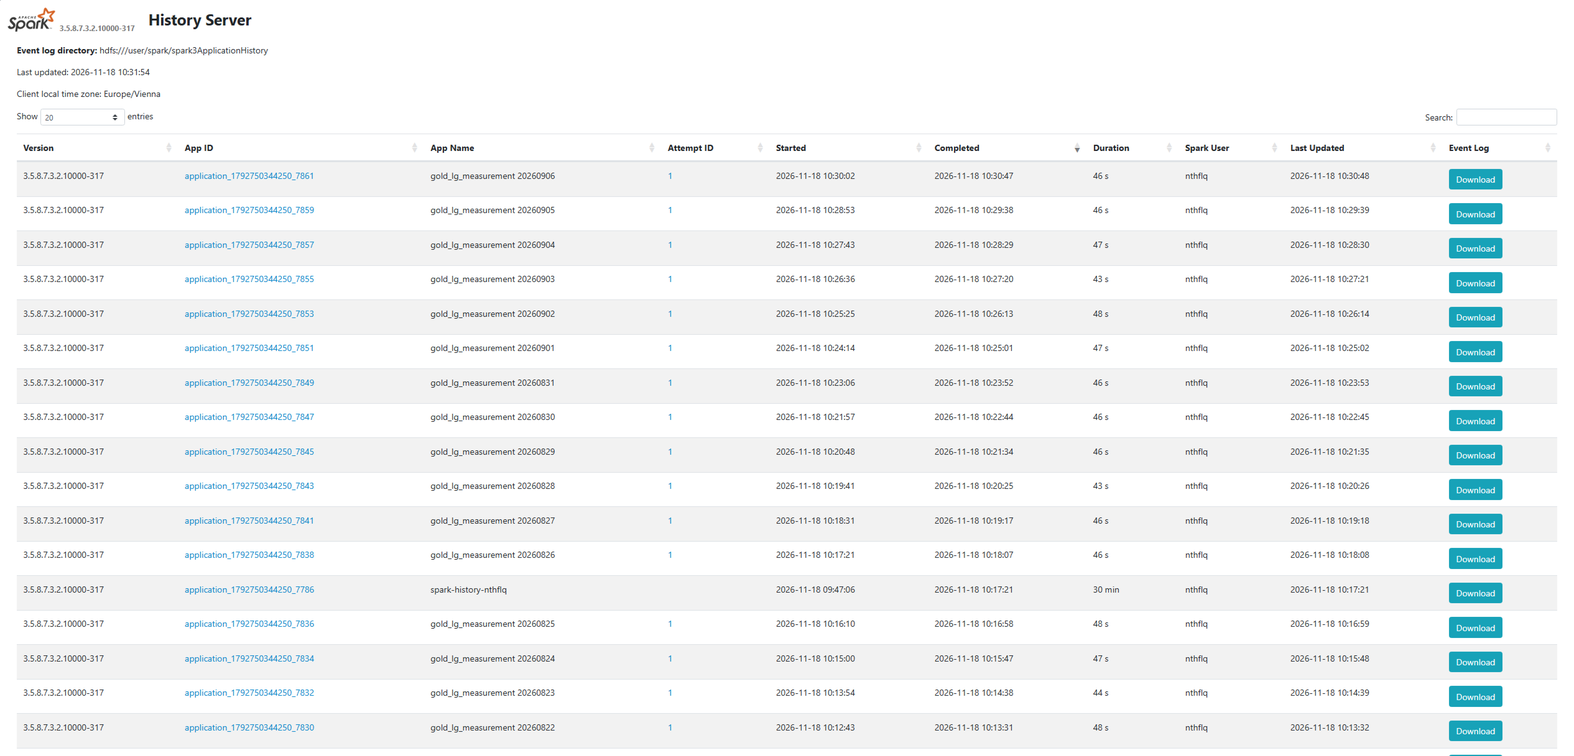
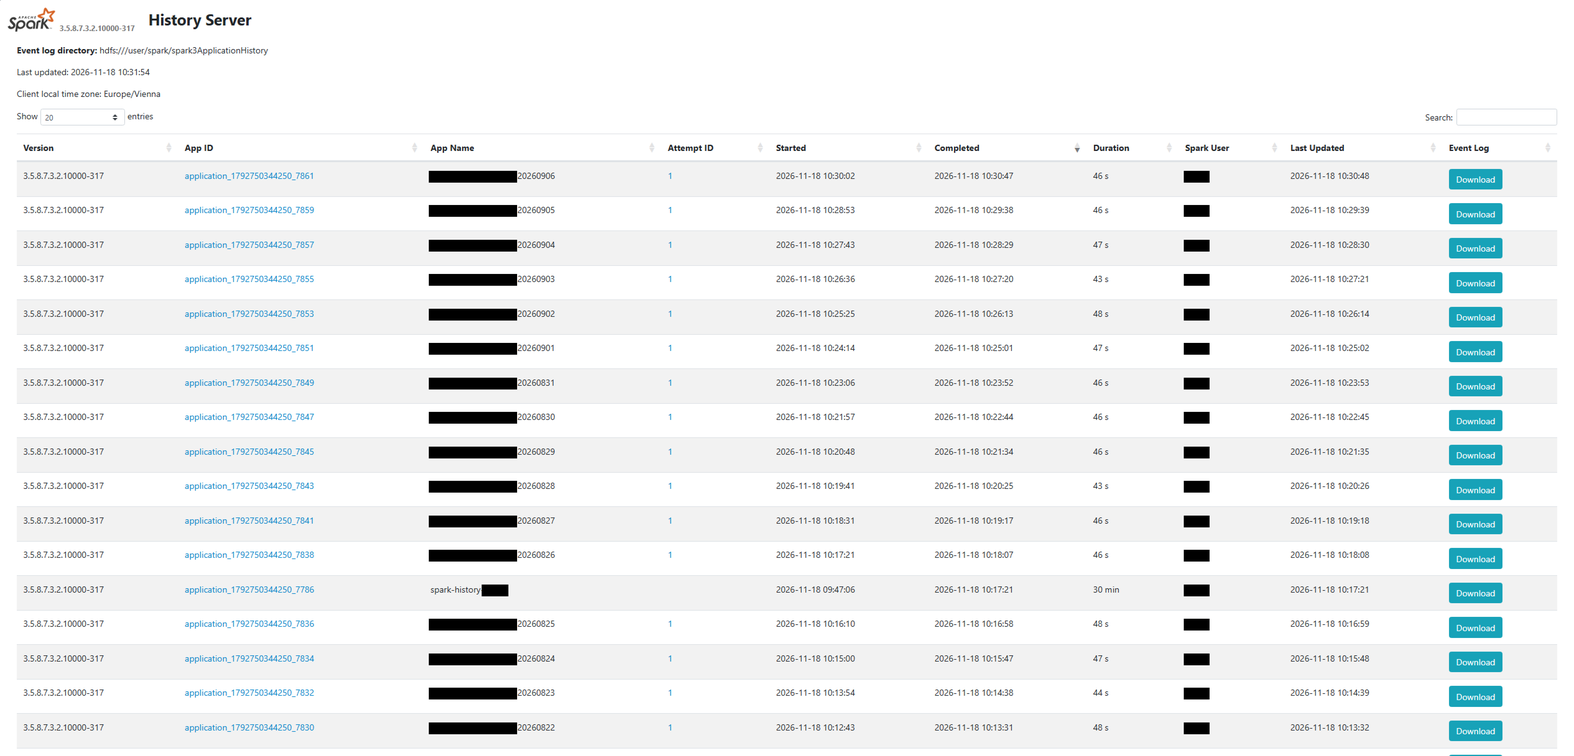
images

diff --git a/16-basics-spark-history/lab/lab_basics_spark_history.md b/16-basics-spark-history/lab/lab_basics_spark_history.md
@@ -6,7 +6,7 @@ You need two windows side by side: the place where you type Spark code (a termin
 
 | Part | Sections | What you do |
 |------|----------|-------------|
-| **A. Orient** | 0 | Start the application, open the History Server, prepare the labels that link the UI to your code |
+| **A. Orient** | 0 | Start the application, open the History Server, learn what each tab is for |
 | **B. Steps** | 1–9 | One step per section; each ends with a look into the UI |
 | **C. Wrap-up** | 10 | End the application and read it as a *completed* application |
 
@@ -19,7 +19,7 @@ The only block that differs is the one that sets paths (section 0.1). The Histor
 
 **Pasting into `pyspark3`:** after you paste a function (`def ...`) or a loop (`for ...`), press Enter once more so the shell closes it. Inside brackets `( )` the lab never leaves empty lines.
 
-**Screenshots:** every place marked `SCREENSHOT` shows which picture belongs there (file name in [images/](images/)). Your own screen should look similar.
+**Screenshots:** the pictures show how the UI looks; your own screen should look similar. A note marked `SCREENSHOT` names a picture that is still missing (file name in [images/](images/)).
 
 ---
 
@@ -27,7 +27,7 @@ The only block that differs is the one that sets paths (section 0.1). The Histor
 
 ## 0. Start the application and open the History Server
 
-**Goal:** Have a running Spark application, find it in the History Server, and label your code so every UI row can be traced back to it.
+**Goal:** Have a running Spark application, find it in the History Server, and learn what each of its tabs is for.
 
 ### 0.1 Start the application
 
@@ -122,13 +122,11 @@ You should see `adaptive.enabled = false` and `shuffle.partitions = 8`.
 
 Open the **Spark History Server** (URL from your handout, or Cloudera Manager → Spark 3 → *Spark3 History Server Web UI*). The start page lists applications.
 
-> **SCREENSHOT** `images/01-history-app-list.png`: the application list, filtered to your user name, with the column headers visible (App ID, App Name, Started, Completed, Duration, Spark User, Last Updated, Event Log).
-<!-- ![Application list](images/01-history-app-list.png) -->
+<img src="images/01-history-app-list.png" alt="Application list" width="70%">
 
 Your application is **not** in the default list: it is still running, and the default list shows only completed applications. Click **Show incomplete applications** at the bottom, and search for your user name or `spark-history`.
 
-> **SCREENSHOT** `images/02-history-show-incomplete.png`: the link *Show incomplete applications* and your application in the incomplete list (Completed column empty).
-<!-- ![Show incomplete applications](images/02-history-show-incomplete.png) -->
+<img src="images/02-history-show-incomplete.png" alt="Show incomplete applications" width="100%">
 
 Read the columns:
 
@@ -139,16 +137,108 @@ Read the columns:
 
 Click the **App ID** to open the application. The first page is the **Jobs** tab, still empty: you have not run an action yet.
 
-> **SCREENSHOT** `images/03-app-empty-jobs-tab.png`: the Jobs tab of your application before any job, with the tab bar (Jobs, Stages, Storage, Environment, Executors, SQL / DataFrame) visible.
-<!-- ![Empty Jobs tab](images/03-app-empty-jobs-tab.png) -->
+<img src="images/03-app-empty-jobs-tab.png" alt="Empty Jobs tab" width="100%">
 
 **If your application is missing:** wait about 10 seconds and reload (the History Server rescans the event log directory periodically), check that **Show incomplete applications** is on, and compare the id with the one you printed. Ask your instructor if it is still missing after a minute.
 
 **The live UI shows the same pages.** While the application runs, the ResourceManager (YARN UI) links to the Spark UI itself (`application_...` → *ApplicationMaster*). The History Server pages are identical; it just keeps them after the application has ended. In this lab you stay in the History Server.
 
-### 0.3 Label your code so you can find it in the UI
+### 0.3 A map of the UI
 
-Spark names jobs after the place in the Spark source that started them, for example `count at NativeMethodAccessorImpl.java:0`. In PySpark that never points at *your* line. So the lab gives every step a **label**. Two small functions do it. `step()` puts a label on every job that follows; `jobs()` prints the job ids a step has started, so you can look for exactly those numbers in the UI.
+Keep this in mind while you work. Each tab answers one question:
+
+- **Jobs:** one row per **job**, usually one per **action** you ran (`count`, `show`, `collect`, `write`, ...). *Which of my actions was slow? Which one failed?*
+- **Stages:** one row per **stage**, the parts a job is cut into at every shuffle. *Where does the time go? Which stage moves the most data?*
+- **Storage:** every cached DataFrame. *What is cached, how big, how much of it?*
+- **Environment:** every configuration value of this application. *Which settings explain what I see?*
+- **Executors:** the driver and the executor containers. *Who did the work, how much GC, which logs?*
+- **SQL / DataFrame:** one row per DataFrame or SQL query with its **plan as a graph**. *What exactly did Spark run for this line of code?* (Older Spark versions call this tab **SQL**.)
+
+The chain from your code to a number is always the same: **code line → query (SQL / DataFrame tab) → job → stage → task**.
+
+---
+
+# Part B — Nine steps, nine footprints
+
+## 1. A job, its stages and its tasks, and how to find your code
+
+**Goal:** Read one complete job from the Jobs tab down to a single task, and see why you need a label to find *your* code in the UI.
+
+### 1.1 Run an action without any preparation
+
+Define the CSV reader with an explicit schema. Reading is **lazy**: this runs no job.
+
+```python
+meter_schema = (
+    "ts_utc STRING, station_id STRING, device_id STRING, phase STRING, "
+    "active_power_kw DOUBLE, reactive_power_kvar DOUBLE, voltage_v DOUBLE, "
+    "current_a DOUBLE, power_factor DOUBLE, frequency_hz DOUBLE, "
+    "transformer_load_pct DOUBLE, quality_flag STRING, event_code STRING, "
+    "comm_status STRING")
+meter = spark.read.option("header", True).schema(meter_schema).csv(meter_csv)
+```
+
+Now trigger an action. Do not label anything yet: this is what you get when you just type code.
+
+```python
+print(meter.count())
+```
+
+You should see **15** rows. Reload the History Server (wait about 10 seconds if the job is missing).
+
+> **SCREENSHOT** `images/04a-jobs-tab-unlabelled.png`: the Jobs tab with the single row for your `count()`: Job Id `0`, the description `count at NativeMethodAccessorImpl.java:0`, its duration, stages (succeeded/total) and tasks (progress bar), and the event timeline above.
+<!-- ![Jobs tab, unlabelled job](images/04a-jobs-tab-unlabelled.png) -->
+
+**Look at (Jobs tab):**
+
+- The **Description** is `count at NativeMethodAccessorImpl.java:0`. That is Spark's **call site**: the place in the *Spark* code that started the job. `NativeMethodAccessorImpl` is the bridge from Python to Java; it is never a line of your code. Every `count()` reads exactly like this, and a `show()` differs only in the method name.
+- There is no job group: the **Job Id** is just `0`.
+- With one job it is easy to guess that it is yours. With thirty jobs from many cells it is not: **which job belongs to which line of your code?** Keep this question in mind; you will answer it in section 1.3.
+- **Stages: succeeded/total** and **Tasks: succeeded/total**: you ran one `count()`, yet the job has **two stages**. You will see why in a moment.
+- Expand **Event Timeline**: each bar is a job; the green markers show when executors were added. Executors start on demand, so your first job often includes the wait for containers.
+
+### 1.2 Read the two stages
+
+Open the **Stages** tab. The `count()` has two completed stages, **0** and **1**. Click the description of stage 0 to open its **stage page**, then do the same for stage 1.
+
+<img src="images/06-stage0.png" alt="Stage 0" width="48%"> <img src="images/06-stage1.png" alt="Stage 1" width="48%">
+
+*Left: stage 0. Right: stage 1.*
+
+**Look at (stage 0, left):**
+
+- **Input Size / Records: 1620.0 B / 15.** The stage reads the CSV file: 15 records. **Shuffle Write Size / Records: 59.0 B / 1.** It writes just **one record**: the partial count of its single partition.
+- **DAG Visualization**, read from top to bottom: `Scan csv` (the file is read), `WholeStageCodegen (1)` (the partial count, compiled into one function) and, at the bottom, **`Exchange`**. The `Exchange` is where the stage writes its shuffle files. It is the end of the stage.
+- **Summary Metrics for 1 Completed Tasks:** the stage ran **one task**. A task is the unit of work on one **partition** of the data. The 15-row file is tiny, so it is one partition. With a single task min, median and max are equal. From section 4 on they differ, and that is where you spot problems.
+
+**Look at (stage 1, right):**
+
+- **Shuffle Read Size / Records: 59.0 B / 1.** This is exactly what stage 0 wrote. There is **no Input**: the stage does not read a file, it reads the shuffle files of stage 0.
+- **DAG Visualization:** it starts with **`Exchange`** (`ShuffledRowRDD`: the data arrives from stage 0), then `WholeStageCodegen (2)` (the final sum of the partial counts) and `mapPartitionsInternal` (the result goes to the driver).
+- **Total Time Across All Tasks:** 0.9 s for stage 0 against 77 ms for stage 1. Reading and parsing the file is the real work, adding up one number is not.
+
+**What you learn from the two pages together:**
+
+- One action, one job, but **two stages**. Stage 0 counts per partition, stage 1 sums the partial counts. Spark needs two stages because the partial counts must be brought together in one place. That move of data is a **shuffle**, and **every shuffle starts a new stage**.
+- You recognize the boundary in the UI: **Shuffle Write** at the end of one stage, the same amount as **Shuffle Read** at the start of the next one. In the DAG it is the `Exchange` box, once at the bottom of the first stage and once at the top of the second.
+- Both pages show **Associated Job Ids: 0**. The stage belongs to the job; the job id and the stage ids are separate counters, so job 3 can contain stages 5 and 6.
+
+**The same shuffle in the SQL / DataFrame tab.** Open the **SQL / DataFrame** tab and click the query of your `count()` (query 0). It shows the *plan* of the job as a graph, with the row counts Spark measured:
+
+<img src="images/05-sql-plan-s1.png" alt="SQL plan of the count" width="45%">
+
+- `Scan csv`: **15 output rows**, 1 file read, 1620 B read.
+- `HashAggregate` in `WholeStageCodegen (1)`: **1 output row**, the partial count. This is stage 0.
+- `Exchange`: **shuffle records written: 1**, shuffle bytes written 59 B, number of partitions 1. This is the stage boundary; the numbers are the same ones you saw as Shuffle Write and Shuffle Read.
+- `HashAggregate` in `WholeStageCodegen (2)`: **1 output row**, the final sum. This is stage 1.
+
+The stage pages show how the work ran (tasks, time, bytes); the plan shows what Spark decided to do. In section 3 you will compare this graph with the `explain()` output of your own code.
+
+With adaptive execution **on** (the cluster default) the same `count()` would show up as two jobs and a skipped stage: Spark runs stage 0 as a job of its own, looks at the shuffle size, and then runs the rest. You switched it off in section 0 to keep one action = one job. The stretch shows the difference.
+
+### 1.3 Label your code so you can find it in the UI
+
+Spark names jobs after the place in the Spark source that started them. In PySpark that never points at *your* line, as you have just seen. So from now on every step gets a **label**. Two small functions do it: `step()` puts a label on every job that follows, and `jobs()` prints the job ids a step has started, so you can look for exactly those numbers in the UI.
 
 ```python
 from pyspark.sql import functions as F
@@ -171,87 +261,27 @@ def jobs(key):
     print(f"{key} - {ledger[key]}: job ids {ids}")
 ```
 
-You will now see three things everywhere in the UI: the label in the **Description** column (`S1: read csv ...`), the **job ids** your code printed, and the **stage and task counts** that you can predict from your code (for example `getNumPartitions()`).
-
-### 0.4 A map of the UI
-
-Keep this in mind while you work. Each tab answers one question:
-
-- **Jobs:** one row per **job**, usually one per **action** you ran (`count`, `show`, `collect`, `write`, ...). *Which of my actions was slow? Which one failed?*
-- **Stages:** one row per **stage**, the parts a job is cut into at every shuffle. *Where does the time go? Which stage moves the most data?*
-- **Storage:** every cached DataFrame. *What is cached, how big, how much of it?*
-- **Environment:** every configuration value of this application. *Which settings explain what I see?*
-- **Executors:** the driver and the executor containers. *Who did the work, how much GC, which logs?*
-- **SQL / DataFrame:** one row per DataFrame or SQL query with its **plan as a graph**. *What exactly did Spark run for this line of code?* (Older Spark versions call this tab **SQL**.)
-
-The chain from your code to a number is always the same: **code line → query (SQL / DataFrame tab) → job → stage → task**.
-
----
-
-# Part B — Nine steps, nine footprints
-
-## 1. A job, its stages and its tasks
-
-**Goal:** Read one complete job: from the Jobs tab down to a single task.
-
-Create the label, define the CSV reader with an explicit schema, and ask which jobs exist so far:
+Run the **same** `count()` again, now with a label, and ask which job ids the step has started:
 
 ```python
 step("S1", "read csv with explicit schema, count")
-meter_schema = (
-    "ts_utc STRING, station_id STRING, device_id STRING, phase STRING, "
-    "active_power_kw DOUBLE, reactive_power_kvar DOUBLE, voltage_v DOUBLE, "
-    "current_a DOUBLE, power_factor DOUBLE, frequency_hz DOUBLE, "
-    "transformer_load_pct DOUBLE, quality_flag STRING, event_code STRING, "
-    "comm_status STRING")
-meter = spark.read.option("header", True).schema(meter_schema).csv(meter_csv)
-jobs("S1")
-```
-
-The list is empty (`[]`): reading is **lazy**, no job has run. Now trigger an action:
-
-```python
 print(meter.count())
 jobs("S1")
 ```
 
-You should see **15** rows and **one** job id in the list. Reload the History Server (wait about 10 seconds if the job is missing).
+You should see **15** and one job id (`[1]`). Reload the History Server.
 
-> **SCREENSHOT** `images/04-jobs-tab-s1.png`: the Jobs tab with the row `S1: read csv with explicit schema, count`, its duration, stages (succeeded/total) and tasks (progress bar), and the event timeline above.
-<!-- ![Jobs tab after S1](images/04-jobs-tab-s1.png) -->
+<img src="images/04-jobs-tab-s1.png" alt="Jobs tab, labelled and unlabelled" width="100%">
 
 **Look at (Jobs tab):**
 
-- The **Description** is your label, and the **Job Id** equals the id your code printed. The column header shows the job group in brackets: `0 (S1)`.
-- **Stages: succeeded/total** and **Tasks: succeeded/total**: you ran one `count()`, yet the job has **two stages**. You will see why in a moment.
-- Expand **Event Timeline**: each bar is a job; the green markers show when executors were added. Executors start on demand, so your first job often includes the wait for containers.
+- Both rows come from the same `count()`. The call site (`count at NativeMethodAccessorImpl.java:0`) is identical, so **only your label** tells them apart.
+- The new row has your label in the **Description**, the job group in brackets in the **Job Id** column (`1 (S1)`), and the id your code printed. The stages of this job carry the label too: open the **Stages** tab.
+- The second job is usually **faster** than the first: the executors were already running.
 
-Click the job description to open the **job page**.
+From now on you find three things everywhere in the UI: the label in the **Description** column (`S2: ...`), the **job ids** your code printed, and the **stage and task counts** that you can predict from your code (for example `getNumPartitions()`).
 
-> **SCREENSHOT** `images/05-job-detail-dag-s1.png`: the job page with the DAG Visualization expanded (two stage boxes, the Exchange between them) and the stages table below.
-<!-- ![Job page with DAG](images/05-job-detail-dag-s1.png) -->
-
-**Look at (job page):**
-
-- **DAG Visualization:** each box is a **stage**; the arrows show data flowing between stages. Stage 1: `FileScan csv` and a partial aggregate (count per partition). Then an **Exchange** (a shuffle, all partial counts go to one place). Stage 2: the final sum.
-- **Stages table:** note the **stage ids**. Job ids and stage ids are separate counters, so job 3 can contain stages 5 and 6.
-- **Input / Shuffle Write / Shuffle Read** columns: stage 1 reads the file (`Input`) and writes its partial counts (`Shuffle Write`), stage 2 reads them (`Shuffle Read`).
-
-With adaptive execution **on** (the cluster default) the same `count()` would show up as two jobs and a skipped stage: Spark runs stage 1 as a job of its own, looks at the shuffle size, and then runs the rest. You switched it off in section 0 to keep one action = one job. The stretch shows the difference.
-
-Click the description of the first stage to open the **stage page**.
-
-> **SCREENSHOT** `images/06-stage-detail-s1.png`: the stage page with Summary Metrics (min / 25th / median / 75th / max), the Aggregated Metrics by Executor and the task table.
-<!-- ![Stage page](images/06-stage-detail-s1.png) -->
-
-**Look at (stage page):**
-
-- **Tasks table:** one row per task. A task is the unit of work on one **partition** of the data in one executor. The 15-row file is tiny, so there is typically **one task**.
-- **Summary Metrics:** minimum, quartiles and maximum of all tasks for **Duration**, **GC Time**, **Input Size / Records**. With a single task all five columns are equal. From section 4 on they will differ, and that is where you spot problems.
-- **Input Size / Records:** about 15 records (the data rows of the CSV) and the file size in bytes.
-- **Event Timeline** (button *Show Additional Metrics* → *Event Timeline*): the time of a task split into scheduler delay, deserialization, executor computing time and so on. Almost all of it should be tiny here.
-
-**Check question:** Why does a `count()` over 15 rows run as two stages and not one?
+**Check question:** Why does a `count()` over 15 rows run as two stages and not one? And without your label, how would you find the job of one particular cell in an application with fifty jobs?
 
 ---
 
@@ -275,13 +305,12 @@ meter_inferred.printSchema()
 jobs("S2")
 ```
 
-> **SCREENSHOT** `images/07-jobs-tab-s2-inferschema.png`: the Jobs tab with the `S2: read csv with inferSchema` row, expanded call site / details visible if possible.
-<!-- ![inferSchema job](images/07-jobs-tab-s2-inferschema.png) -->
+<img src="images/07-jobs-tab-s2-inferschema.png" alt="inferSchema job" width="100%">
 
 **Look at:**
 
 - Find the `S2` row in the Jobs tab and its stage: it has **Input** (the file is read in full) but no result you ever see.
-- Click the stage, open **+details** under the stage description: the call site there reads like `csv at NativeMethodAccessorImpl.java:0`. This is what *every* job description looked like without your label.
+- Click the stage, open **+details** under the stage description: the call site there reads like `csv at NativeMethodAccessorImpl.java:0`. This is the call site you saw on the unlabelled job in section 1.
 
 On 15 rows this costs milliseconds; on a landing folder with thousands of files it is a full extra pass over the data. That is why the labs use explicit schemas.
 
@@ -398,13 +427,13 @@ print(len(rows), "result rows")
 jobs("S5")
 ```
 
-> **SCREENSHOT** `images/10-job-dag-s5.png`: the job page of S5 with the DAG showing the Exchange between the scan/partial-aggregate stage and the final aggregate stage, and the stages table with Shuffle Write / Shuffle Read.
-<!-- ![Job DAG with shuffle](images/10-job-dag-s5.png) -->
+> **SCREENSHOT** `images/10-stages-tab-s5.png`: the Stages tab with the two stages of S5, showing Shuffle Write on the first and Shuffle Read on the second stage.
+<!-- ![Stages tab with shuffle](images/10-stages-tab-s5.png) -->
 
-**Look at (job page):**
+**Look at (Stages tab):**
 
 - The `Exchange` separates two stages. The first stage has **8 tasks** (your 8 partitions), the second has **8 tasks** too: the 8 shuffle partitions you set in section 0.
-- **Stages table:** the first stage shows **Shuffle Write**, the second shows **Shuffle Read**. Compare the **record counts**: the first stage processed 5,000,000 rows, but it writes only a few dozen. Spark aggregated *within* each partition first (the first `HashAggregate` is the *partial* one) and shuffles only the partial results. That is why a `groupBy` on few keys is cheap even for huge inputs.
+- **Shuffle columns:** the first stage shows **Shuffle Write**, the second shows **Shuffle Read**. Compare the **record counts**: the first stage processed 5,000,000 rows, but it writes only a few dozen. Spark aggregated *within* each partition first (the first `HashAggregate` is the *partial* one) and shuffles only the partial results. That is why a `groupBy` on few keys is cheap even for huge inputs.
 - Find the stage that reads the shuffle and open it. Only 12 different keys (3 stations x 4 hours) are spread over 8 tasks, so the **Shuffle Read Records** differ: some tasks get several keys, a few get none. With the default of 200 shuffle partitions, 188 more tasks would start and almost all would be empty. Adaptive execution exists to merge such tiny partitions at runtime.
 
 Open the **Stages** tab and sort by **Duration**: this is the quickest way to find the slowest stage of a whole application.
@@ -596,7 +625,7 @@ jobs("S9")
 > **SCREENSHOT** `images/16-jobs-tab-failed.png`: the Jobs tab with the section *Failed Jobs* (the S9 job, with its failure reason in the status column).
 <!-- ![Failed job](images/16-jobs-tab-failed.png) -->
 
-**Look at (Jobs tab):** the job is listed under **Failed Jobs**. Click it: a **Failed Stages** section holds the stage, with a short reason. Click the stage.
+**Look at (Jobs tab):** the job is listed under **Failed Jobs**. Open the **Stages** tab: the stage is listed under **Failed Stages**, with a short reason. Click the stage.
 
 > **SCREENSHOT** `images/17-failed-task-attempts.png`: the stage page with the task table: task index 0 with attempts 0, 1, 2, 3 all FAILED and the Errors column with the ValueError, the other three tasks SUCCESS or KILLED.
 <!-- ![Task attempts](images/17-failed-task-attempts.png) -->

diff --git a/slides/spark-history/pages/01-theory.md b/slides/spark-history/pages/01-theory.md
@@ -126,7 +126,7 @@ Where the History Server sits and how to read what it shows
   <div class="font-bold text-base">Job</div>
   <div class="mt-1">Work started by an <b>action</b>: <code>count</code>, <code>show</code>, <code>collect</code>, <code>write</code></div>
   <div class="mt-2"><b>Id:</b> 0, 1, 2, ... (own counter)</div>
-  <div><b>UI:</b> <b>Jobs</b> tab, job page with DAG</div>
+  <div><b>UI:</b> <b>Jobs</b> tab</div>
 </div>
 
 <div class="rounded-lg border-2 border-purple-500/60 bg-purple-500/10 p-2">
@@ -172,7 +172,7 @@ Where the History Server sits and how to read what it shows
 
 <div class="border-l-4 border-blue-500 pl-3">
   <div class="font-bold text-base">Jobs</div>
-  <div class="mt-1 opacity-80">Which action was slow or failed? Event timeline, DAG per job.</div>
+  <div class="mt-1 opacity-80">Which action was slow or failed? Job list with status, duration and event timeline.</div>
 </div>
 
 <div class="border-l-4 border-purple-500 pl-3">
@@ -209,7 +209,7 @@ Where the History Server sits and how to read what it shows
 | You see | Where | Usually means |
 |---------|-------|---------------|
 | One task far above the **median** (max is many times median) | Stage → Summary Metrics, task table | **Data skew**: one key holds most rows |
-| Huge **Shuffle Write** | Stages, job page | A shuffle of whole rows, for example a sort-merge join |
+| Huge **Shuffle Write** | Stages tab | A shuffle of whole rows, for example a sort-merge join |
 | **GC time** highlighted red (above about 10 %) | Executors | Memory pressure |
 | **Spill** (memory or disk) | Stage page | Shuffle partitions too big for memory |
 | Thousands of tiny tasks | Stage page | Too many partitions or small files |
@@ -226,7 +226,7 @@ Start at the **Jobs** tab, sort the **Stages** tab by *Duration*, then open the 
 
 # Linking the UI back to your code
 
-PySpark job descriptions look like `count at NativeMethodAccessorImpl.java:0`: they never point at your line. The lab uses four ways to find your code in the UI:
+PySpark job descriptions look like `count at NativeMethodAccessorImpl.java:0`: they never point at your line. In the lab you first run a job **without** any label and see this yourself. Then you use four ways to find your code in the UI:
 
 <div class="grid grid-cols-2 gap-4 mt-4 text-sm">
 
@@ -258,7 +258,7 @@ You start **one** Spark application (`pyspark3` or a Livy notebook) and, after e
 
 | Step | Footprint in the UI |
 |------|---------------------|
-| 1–3 | A job with its stages and tasks; a job you did not ask for; one stage and its plan |
+| 1–3 | A job without and with a label, its stages and tasks; a job you did not ask for; one stage and its plan |
 | 4–5 | Tasks follow partitions; a shuffle splits the job |
 | 6 | Broadcast against sort-merge join, and skew |
 | 7–8 | Cache in the Storage tab; Parquet write and partition pruning |

diff --git a/16-basics-spark-history/README.md b/16-basics-spark-history/README.md
@@ -16,7 +16,7 @@ How to read what Spark did with the grid monitoring pilot data: you run **one** 
 After this module you can:
 
 - Find your application in the History Server, tell **incomplete** from **completed** applications, and explain how the UI is rebuilt from the event log
-- Read a **job** (stages, event timeline, DAG), a **stage** (tasks, summary metrics, shuffle read/write) and a **task** (duration, attempt, error)
+- Read a **job** (status, duration, event timeline), a **stage** (tasks, summary metrics, shuffle read/write) and a **task** (duration, attempt, error)
 - Explain why a `count()` runs in two stages, why a shuffle starts a new stage, and why `inferSchema` adds a job you did not ask for
 - Read the **SQL / DataFrame** plan graph and match its nodes (`FileScan`, `Filter`, `HashAggregate`, `Exchange`, `BroadcastHashJoin`) to `explain()` output
 - Recognize a skewed stage from the min / median / max task times, and compare a broadcast with a sort-merge join
@@ -34,7 +34,7 @@ After this module you can:
 
 ## Screenshots
 
-The lab marks every place for a screenshot with a `SCREENSHOT` note. Put the image files into [lab/images/](lab/images/) under the file name given in the note.
+The lab markdown embeds the screenshots from [lab/images/](lab/images/). A `SCREENSHOT` note marks a picture that is still missing: put the image file into that folder under the file name given in the note. Usernames in screenshots must be blacked out. The sparkmagic notebook contains no screenshots.
 
 ## Admin (before session)
 
